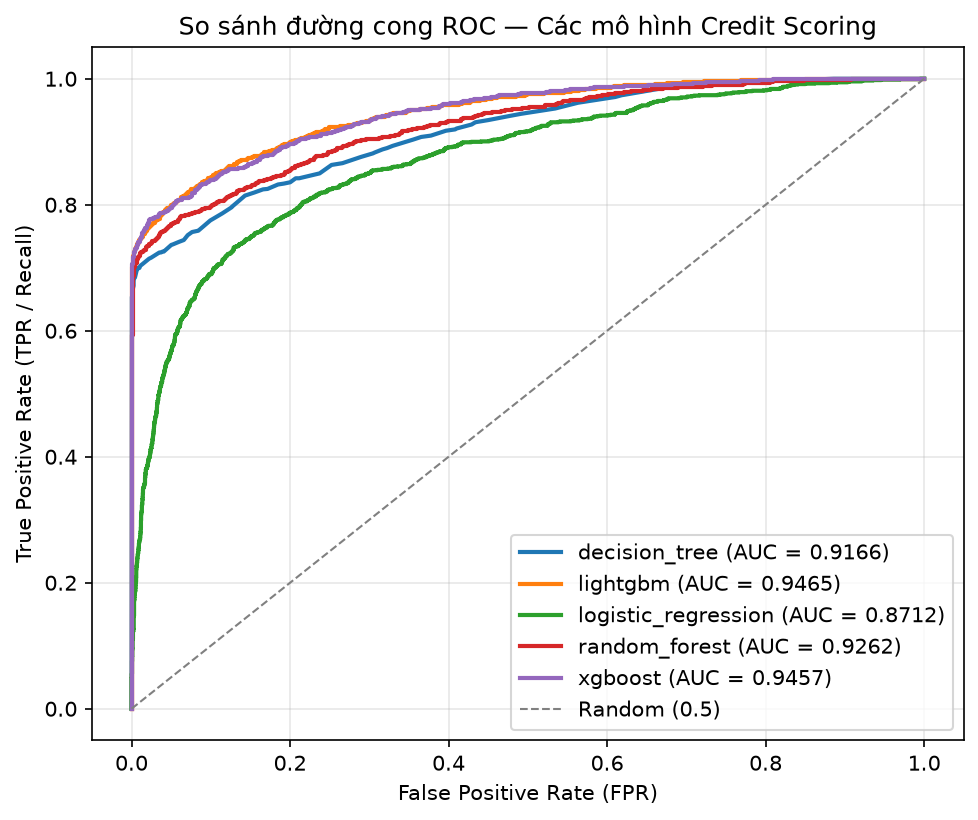
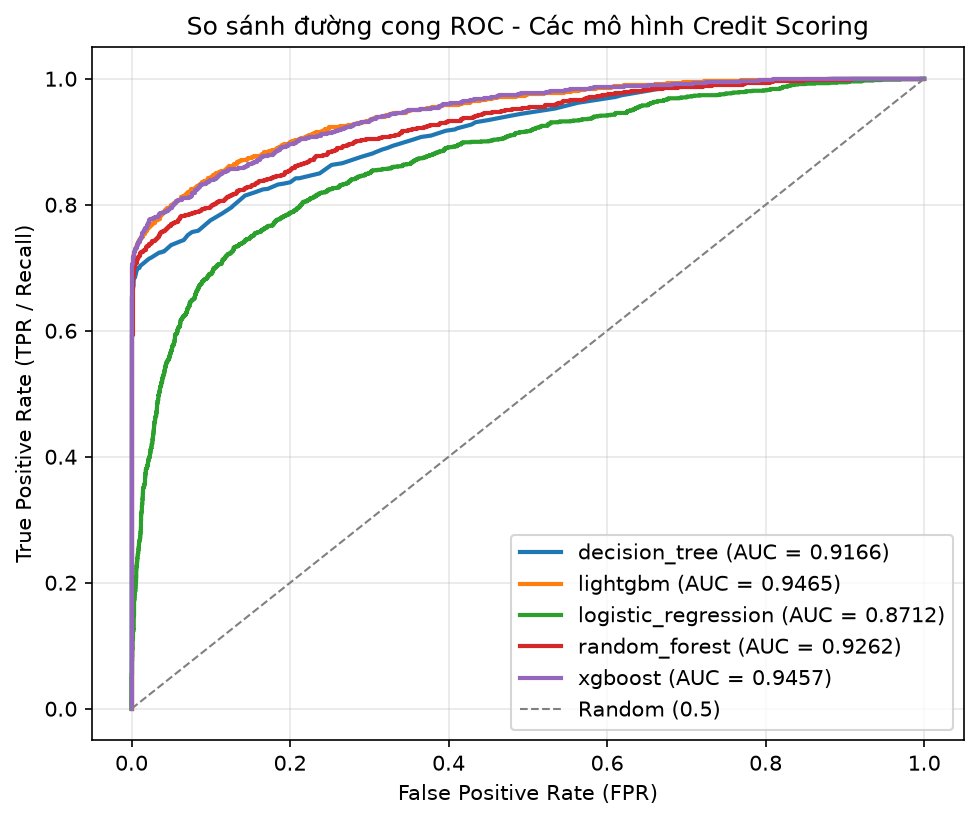
fix(evaluator): skip non-model json files and add 5-model comparison outputs

Changed region(s): [[0.184, 0.0, 0.8896, 0.061]]

diff --git a/src/modeling/evaluator.py b/src/modeling/evaluator.py
@@ -203,7 +203,7 @@ def plot_all_roc_curves(results_dir: str | Path = "reports/results") -> Path:
     ax.plot([0, 1], [0, 1], color="gray", lw=1, linestyle="--", label="Random (0.5)")
     ax.set_xlabel("False Positive Rate (FPR)")
     ax.set_ylabel("True Positive Rate (TPR / Recall)")
-    ax.set_title("So sánh đường cong ROC — Các mô hình Credit Scoring")
+    ax.set_title("So sánh đường cong ROC - Các mô hình Credit Scoring")
     ax.legend(loc="lower right")
     ax.grid(alpha=0.3)
     
